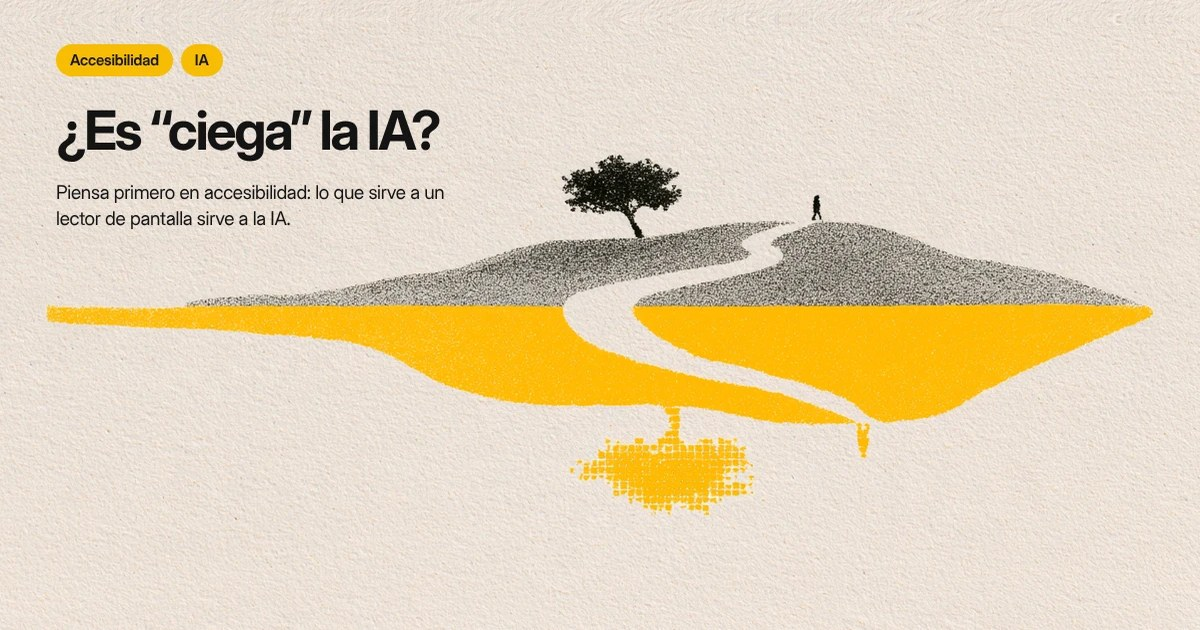
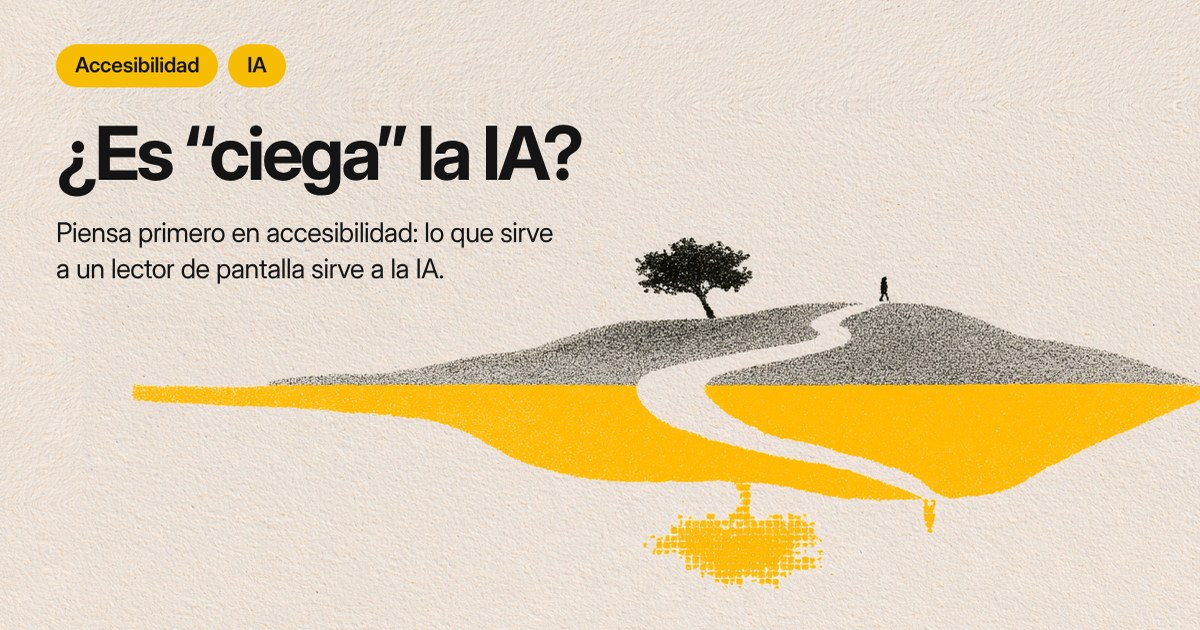
Portadas nuevas con texto grande, miniatura mayor en el listado, ajustes de la home y enlaces del menú
Blog
- Portadas nuevas (texto más grande) de los cinco artículos y sus imágenes para compartir
- La portada de accesibilidad llegó en 16:10 y se recorta a 16:9 como las demás
- Miniatura del listado en escritorio más grande (40 % de la fila, entre 320 y 480 px)

Home y Trabajo
- Se quita el botón «Contacto» de la cabecera de la home (queda el del pie)
- El caso del portfolio pasa al último lugar (home, Trabajo y listas de los casos)
- Testimonio de Fran Cases Quirós en «Lo que dicen», con erratas corregidas; la rejilla pasa a tres columnas en escritorio

Menú
- «Arnau Larripa», «Trabajo» y «Sobre mí» llevan siempre a su página, nunca a un ancla de la misma página,
  que dejaba la barra de navegación fuera de la vista

Claude-Session: https://claude.ai/code/session_01JS6xC9KpG6uFZtYrVtJqwu

Changed region(s): [[0.0308, 0.0603, 1.0, 0.9349]]

diff --git a/src/data/proyectos.js b/src/data/proyectos.js
@@ -1,4 +1,4 @@
-// Los cuatro proyectos que aparecen en la Home y en «Trabajo seleccionado».
+// Los cuatro proyectos que aparecen en la Home y en «Trabajo seleccionado». El orden es el de la lista: el caso del portfolio va el último.
 // Ancho y alto de cada imagen vienen del propio archivo y reservan el hueco para evitar saltos de maquetación.
 import esbard from '../assets/proyectos/esbard-edu.webp';
 import buscador from '../assets/proyectos/buscador-app-sanitaria.webp';
@@ -6,8 +6,8 @@ import planificador from '../assets/proyectos/planificador-medicacion.webp';
 import portfolio from '../assets/proyectos/portfolio-arnau-larripa.webp';
 
 export const proyectos = [
-  { href: '/trabajo/portfolio-arnau-larripa/', titulo: 'Portfolio de Arnau Larripa', desc: 'De la dirección de arte al código de mi propia web.', etiquetas: ['Dirección de arte', 'Design system', 'MVP publicado'], img: portfolio, borde: true },
   { href: '/trabajo/esbard-edu/', titulo: 'eSBARD Edu', desc: 'De los wireframes de un experto a una plataforma que se entiende.', etiquetas: ['Ciberseguridad', 'Educación', 'Lanzado'], img: esbard },
   { href: '/trabajo/buscador-app-sanitaria/', titulo: 'Buscador para una app sanitaria', desc: 'Encontrar tu información de salud sin perderte.', etiquetas: ['Salud pública', 'Propuesta de diseño'], img: buscador },
   { href: '/trabajo/planificador-medicacion/', titulo: 'Planificador de medicación imprimible', desc: 'Del "papelito" de la nevera a un plan claro para cada día.', etiquetas: ['Salud pública', 'Proyecto de exploración'], img: planificador },
+  { href: '/trabajo/portfolio-arnau-larripa/', titulo: 'Portfolio de Arnau Larripa', desc: 'De la dirección de arte al código de mi propia web.', etiquetas: ['Dirección de arte', 'Design system', 'MVP publicado'], img: portfolio, borde: true },
 ];

diff --git a/src/styles/wip.css b/src/styles/wip.css
@@ -138,14 +138,15 @@
   .bl-controls{margin-top:var(--space-10)}
   .bl-ctl{grid-template-columns:minmax(0,1fr) 280px;column-gap:var(--space-10);align-items:start}
   .bl-select-wrap{max-width:none}
-  .bl-count{grid-template-columns:var(--aside-col) minmax(0,1fr);column-gap:var(--space-10);margin-top:var(--space-5)}
+  .bl-listado{--bl-mini:clamp(320px,40%,480px)} /* columna de la miniatura (a partir de 1024 px) */
+  .bl-count{grid-template-columns:var(--bl-mini) minmax(0,1fr);column-gap:var(--space-6);margin-top:var(--space-5)}
   .bl-lista{margin-top:var(--space-6)}
   .bl-lista--sin-controles{margin-top:0}
   /* Miniatura a la izquierda; texto en columna de lectura (704 px) con la flecha dentro de esa columna */
-  .bl-post__row{grid-template-columns:var(--aside-col) minmax(0,var(--text-max));grid-template-areas:"thumb main";column-gap:var(--space-10);row-gap:0;padding-block:var(--space-5)}
+  .bl-post__row{grid-template-columns:var(--bl-mini) minmax(0,var(--text-max));grid-template-areas:"thumb main";column-gap:var(--space-6);row-gap:0;padding-block:var(--space-5)}
   .bl-post .ds-proj__arrow{grid-area:main;justify-self:end;margin-top:0}
   .bl-post .ds-proj__title{font-size:40px;line-height:1.1;letter-spacing:-0.03em;padding-right:var(--space-6)}
-  .bl-pager{margin-top:var(--space-10);grid-template-columns:var(--aside-col) minmax(0,1fr);column-gap:var(--space-10)}
+  .bl-pager{margin-top:var(--space-10);grid-template-columns:var(--bl-mini) minmax(0,1fr);column-gap:var(--space-6)}
 }
 
 /* ==========================================================================

diff --git a/src/styles/components.css b/src/styles/components.css
@@ -339,7 +339,7 @@
   .ds-work--index .ds-proj__thumb{margin-top:0}
   .ds-work--index .ds-proj__row{--t:40px}
   .ds-work--index .ds-proj__title{line-height:1.15}
-  .ds-quotes{grid-template-columns:repeat(2,minmax(0,1fr));gap:var(--space-10)}
+  .ds-quotes{grid-template-columns:repeat(3,minmax(0,1fr));gap:var(--space-6)} /* tres testimonios: una sola fila */
   .ds-footer{margin-top:var(--space-16)}
   /* = t-footer-email-desktop */
   .ds-footer__email{font-size:64px;line-height:1;letter-spacing:-0.04em}
